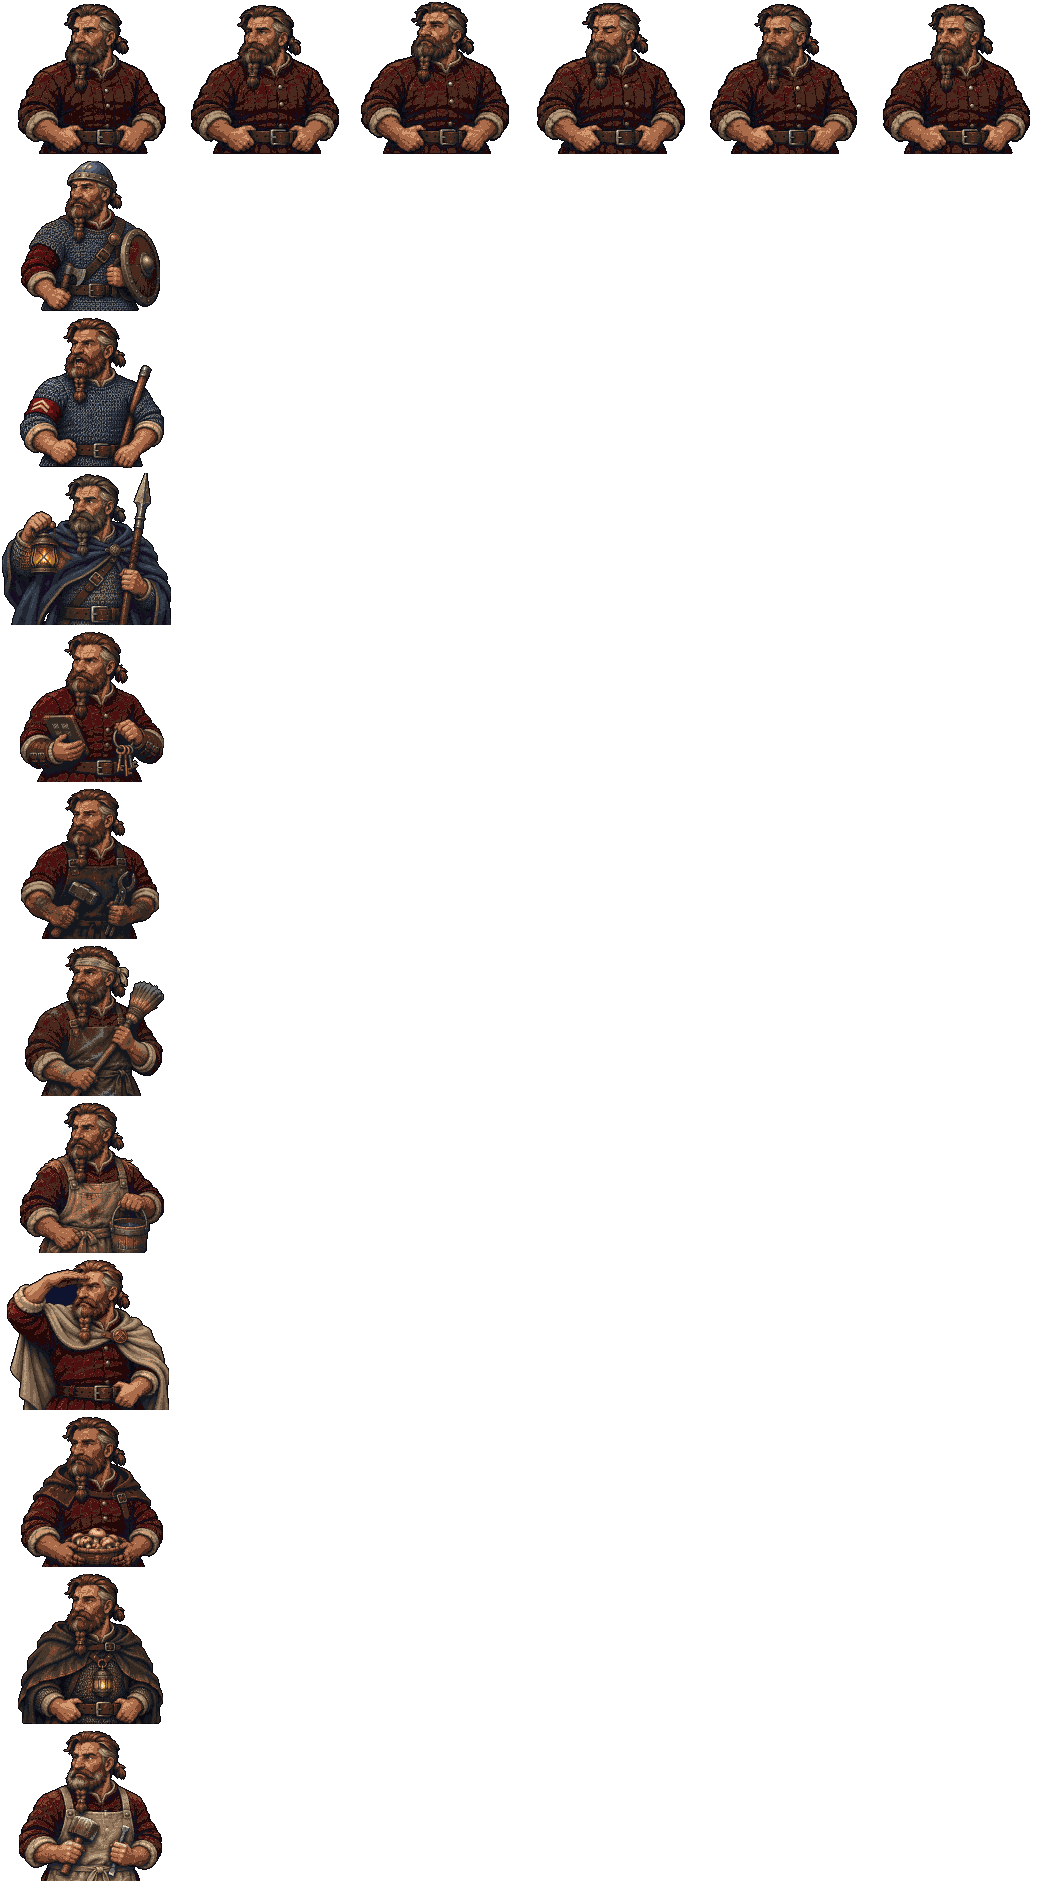
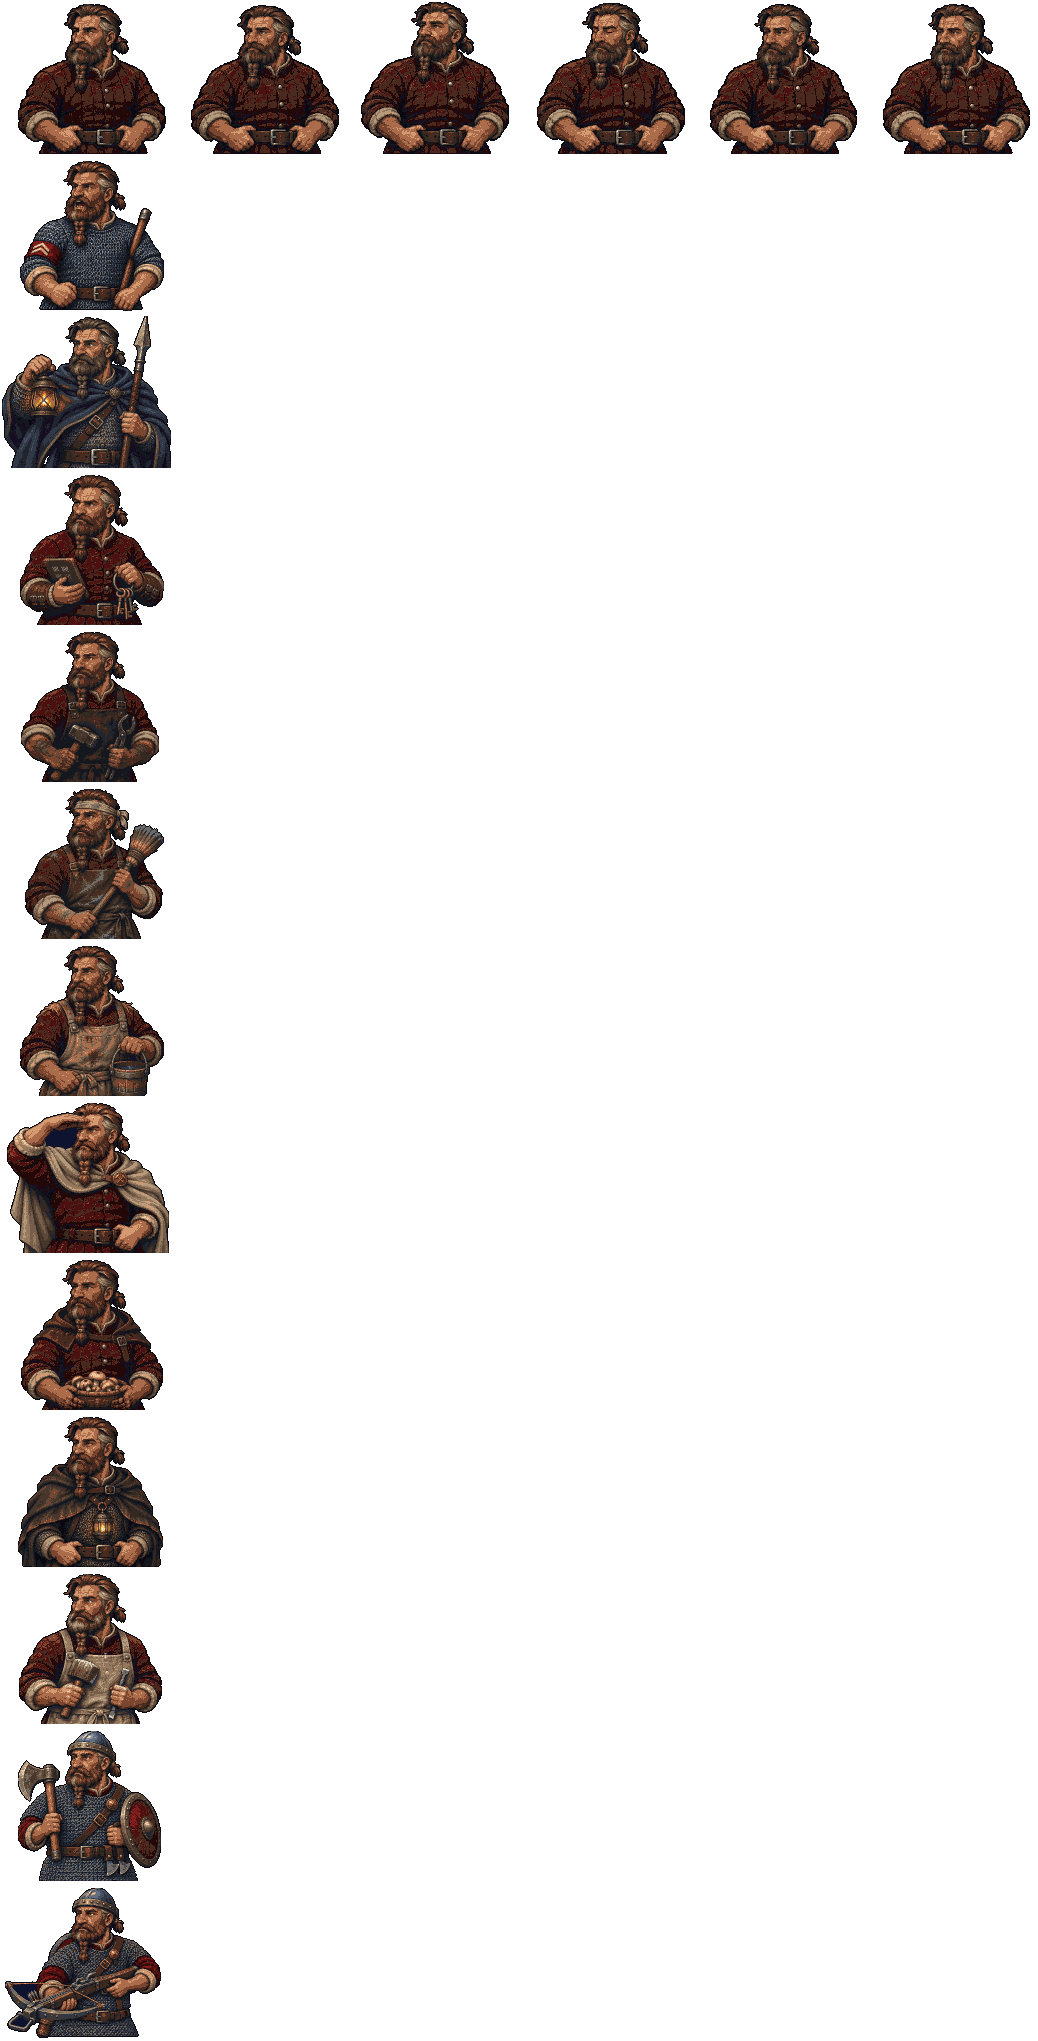
The garrison in its real kit, piece 1: the trooper's portrait redrawn with a battleaxe, the crossbowman's still, and the trooper's town figure trooper_p1 in all eight facings, worn by Ketil and the drill
The art desk's ART-142-GARRISON-PORTRAITS-AND-TOWN (art-wanted section 55, blocks 1 and 4; his "that better not be a battle axe, let's hope
not and request one"), sorted out of Fresh to deep16/_src/ART-142-GARRISON-PORTRAITS-AND-TOWN/. pt_dwarf by tools/portrait-sheet.py: its
`trooper` row from the new page (a bearded war-axe blade with a short poll on a forearm-long haft, two throwing axes at the left hip, the
mail coat below the belt) in place of ART-141's short axe, and a new `crossbowman` row (the shield slung, a heavy crossbow); the frame
173x157 as before, the face at the same scale. trooper_p1 by the new tools/trooper-town-sheet.py over tools/vivian-sheet.py (idle 4,
walk 8; S SE E NE N drawn, SW W NW mirrored; the dwarf's 38 px as folkdwarf_p1, the art desk's "match the supplied folkdwarf_p1 scale").

deep16/js/solskaft.js: Ketil and the drill's four walk on trooper_p1 in place of the gate watch's fight sheet; the gate watch stands on
gatewatch_p2 by name, so the trooper foe's next sheet does not reach him. Eyes rows eyes-garrison-portraits-1113a and
eyes-garrison-town-1113a. garrison1112 22/22 ok.

Changed region(s): [[0.0, 0.0, 0.185, 1.0], [0.5241, 0.0, 1.0, 0.0924], [0.185, 0.0, 0.4933, 0.0924]]

diff --git a/deep16/js/solskaft.js b/deep16/js/solskaft.js
@@ -116,7 +116,7 @@
   SK.WINDOW = [15, 3];        // (the lit window, high on the west store's face over this street square: Ásdís's -- over the lodging door since 11-12, the way up)
   SK.FOLK = [ // the first game's people who belong on this floor, with its looks (first/content/maps/solskaft.json), stood where the street puts them
     { id: 'pyro', at: [17, 1], dir: 'up', kind: 'trooper', sheet: 'pyro_p1' },     // (at the vault door, always -- CANON 07-24; 11-12, cutter-pyro: on his own town figure, pyro_p1, the art desk's ART-141 in all eight facings -- tools/pyro-town-sheet.py; his fight sheet pyro_p2 is his fights')
-    { id: 'ketil', at: [20, 1], dir: 'up', kind: 'trooper' },                       // (beside him: "I stand beside him and count who goes by")
+    { id: 'ketil', at: [20, 1], dir: 'up', kind: 'trooper', sheet: 'trooper_p1' }, // (beside him: "I stand beside him and count who goes by"; 11-13, the garrison cutter: on the trooper's town figure, trooper_p1, ART-142)
     { id: 'quartermaster', at: [6, 6], dir: 'down', kind: 'trooper' },              // (behind the quartermaster's counter, in the tollhouse)
     { id: 'yardhand', at: [33, 5], dir: 'up', kind: 'trooper' },                    // (by the stable's trough: his word is the wheel and the fountains)
     { id: 'shaftwatch', at: [21, 12], dir: 'left', kind: 'trooper' }                // (by the oathstone: his word is the light)
@@ -541,19 +541,20 @@
   SK.CFOLK = [
     { id: 'smith', at: [19, 22], dir: 'left', kind: 'trooper' },            // (the Copperbottom smith at the forge -- "AT THE FORGE" on the family's bar)
     { id: 'smelterhand', at: [27, 23], dir: 'down', kind: 'trooper' },      // (sweeping the cold smelters: "Orders.")
-    { id: 'gatewatch', at: [33, 24], dir: 'down', kind: 'trooper' },        // (the gate watch, inside the highway's gate)
+    { id: 'gatewatch', at: [33, 24], dir: 'down', kind: 'trooper', sheet: 'gatewatch_p2' }, // (the gate watch, inside the highway's gate; on his own drawn spear, gatewatch_p2, now the trooper's foe fights on trooper_p2)
     { id: 'shroomer', at: [4, 11], dir: 'down', kind: 'trooper' },          // (in the shroom farm's dark)
     // the drill, down in the wagon holding by its lamp (moved 11-12 off the street's apron, where it shut the way to the narrow ramp -- his "they could drill down here by the
     // wagon and mysterious glow (3, 28)-ish"; it had stood by the tollhouse and the stables, CANON 11-11)
-    { id: 'drill1', at: [1, 3], dir: 'right', kind: 'trooper' }, { id: 'drill2', at: [3, 3], dir: 'right', kind: 'trooper' },
-    { id: 'drill3', at: [1, 4], dir: 'right', kind: 'trooper' }, { id: 'drill4', at: [3, 4], dir: 'right', kind: 'trooper' },
+    // (11-13, the garrison cutter: the drill's four on the trooper's town figure, trooper_p1 -- art-wanted section 55 block 4, the art desk's ART-142, tools/trooper-town-sheet.py)
+    { id: 'drill1', at: [1, 3], dir: 'right', kind: 'trooper', sheet: 'trooper_p1' }, { id: 'drill2', at: [3, 3], dir: 'right', kind: 'trooper', sheet: 'trooper_p1' },
+    { id: 'drill3', at: [1, 4], dir: 'right', kind: 'trooper', sheet: 'trooper_p1' }, { id: 'drill4', at: [3, 4], dir: 'right', kind: 'trooper', sheet: 'trooper_p1' },
     { id: 'drillmaster', at: [5, 4], dir: 'left', kind: 'drillsergeant' }
   ];
   // THE GENERIC DWARF (11-12, the Ingrith cutter on the lanes desk's relay; art-wanted section 54, his "include a 'generic dwarf' like we did for generic NPC, various
   // costumes"): the art desk's ART-141-DWARF, one face, each of Solskaft's unnamed in the costume of the job they stand at -- pt_dwarf (tools/portrait-sheet.py dwarf),
   // its still held the whole talk on the counter's screen, the generic man's way (js/counter.js C.GENERIC: added here, not there); their word the first game's as before
   // (C.words), the quartermaster's his standing line (SK.WORDS). Those who are not soldiers walk on the dwarf's own town figure, folkdwarf_p1 (tools/folkdwarf-town-sheet.py);
-  // the drill and the gate watch keep the garrison's. Ketil is named and keeps his card. Drawn looking screen left: mirrored on the left (C.FACES_LEFT)
+  // the drill and the gate watch keep the garrison's (11-13: the drill and Ketil on the trooper's town figure, trooper_p1; the gate watch on his spear, gatewatch_p2). Ketil is named and keeps his card. Drawn looking screen left: mirrored on the left (C.FACES_LEFT)
   SK.DWARF = { quartermaster: 'quartermaster', yardhand: 'yardhand', shaftwatch: 'shaftwatch', smith: 'smith', smelterhand: 'smelter', gatewatch: 'gatewatch', shroomer: 'shroom',
     drill1: 'trooper', drill2: 'trooper', drill3: 'trooper', drill4: 'trooper', drillmaster: 'sergeant' };
   SK.DWARFWALK = ['quartermaster', 'yardhand', 'shaftwatch', 'smith', 'smelterhand', 'shroomer'];

diff --git a/js/eyes.js b/js/eyes.js
@@ -186,6 +186,12 @@
     'eyes-gatewatch-fight-1112m': { pri: 1, group: G2, title: 'THE GARRISON\'S TROOPERS FIGHT AS THE GATE WATCH: a drawn spear dwarf in every row, all eight facings (11-12)', pt: 'the story build lane, 2026-11-12 (the Ingrith cutter; tools/gatewatch-fight-sheet.py gatewatch_p2, deep16/data/foes.js trooper, trooperxbow)',
       url: 'deep16/?rows=gatewatch_p2,trooper_p0&beside&fresh=1112m',
       look: 'Your "Tried to get usable dwarf combat art out of the dept, its in Fresh": the art desk\'s ART-141 gate watch, bare-headed in mail with a leaf-headed spear -- idle, walk, the spear attack (thrusts on 3 and 5, overhead on 4), flinch, the fall with the spear let go, prone -- beside the old LPC trooper it replaces (helm, small mace). Both Trooper foes wear it now, the crossbow pair at the Skylights too (no crossbow row: they thrust as the old sheet swung). The drill-sergeant keeps his own. JUDGE: usable? and the spear on the crossbowmen.' },
+    'eyes-garrison-portraits-1113a': { pri: 1, group: G2, title: 'THE TROOPER REDRAWN WITH A BATTLEAXE, AND THE CROSSBOWMAN: two new stills of the generic dwarf (11-13)', pt: 'the story build lane, 2026-11-13 (the garrison cutter; tools/portrait-sheet.py dwarf, pt_dwarf trooper and crossbowman)',
+      url: 'deep16/?portraits&who=dwarf&fresh=1113a',
+      look: 'Your "that better not be a battle axe, let\'s hope not and request one", the art desk\'s ART-142: the TROOPER row (near the end now) redrawn -- a bearded war-axe blade with a short poll on a forearm-long haft, held upright before his right shoulder, two small throwing axes at the left hip, the mail coat below the belt -- in place of ART-141\'s short axe; and a new CROSSBOWMAN row, the shield slung on his back, a heavy steel-bound crossbow across his chest. Same face as the rest. The drill\'s four speak on the trooper still (Sólskaft\'s wagon holding); nobody speaks on the crossbowman yet. JUDGE: a battleaxe now? and the crossbowman.' },
+    'eyes-garrison-town-1113a': { pri: 1, group: G2, title: 'THE GARRISON TROOPER WALKING THE HOLD: his town figure in the trooper\'s kit, all eight facings (11-13)', pt: 'the story build lane, 2026-11-13 (the garrison cutter; tools/trooper-town-sheet.py trooper_p1, deep16/js/solskaft.js)',
+      url: 'deep16/?rows=trooper_p1,folkdwarf_p1&beside&fresh=1113a',
+      look: 'The art desk\'s ART-142 town figure beside the dwarf in his own clothes it re-dresses: steel cap, mail to mid-thigh, the round shield on his back, the battleaxe hung at the hip; idle 4 and walk 8 in every facing (SW, W, NW the mirrors). On the street: Ketil at the vault doors and the drill\'s four in the wagon holding (deep16/?roam=solskaft_cart&hour=10) walk on it now; the gate watch keeps his spear. JUDGE: the kit reads at size, and the walk.' },
     'eyes-dwarf-portrait-1112l': { pri: 1, group: G2, title: 'THE GENERIC DWARF: one face, his own clothes and eleven jobs\' costumes (11-12)', pt: 'the story build lane, 2026-11-12 (the Ingrith cutter; tools/portrait-sheet.py dwarf, pt_dwarf)',
       url: 'deep16/?portraits&who=dwarf&fresh=1112l',
       look: 'Your "include a \'generic dwarf\' like we did for generic NPC, various costumes", the art desk\'s ART-141: the same braided brown beard and broken nose every page -- idle in the red quilted tunic (a blink), then the trooper, the drill sergeant, the gate watch (lamp and spear), the quartermaster, the smith, the smelter hand, the yard hand, the shaft watch, the shroom farmer, the lamp warden, the mason. JUDGE: one dwarf, and each job reads?' },

diff --git a/deep16/data/sprites.js b/deep16/data/sprites.js
@@ -15420,7 +15420,7 @@ false
 "source": "deep16/_src/ART-139/source (the art desk's ART-139-DORAN, sorted out of Fresh 10-21), cut by tools/portrait-sheet.py"
 },
 "pt_dwarf": {
-"image": "art/pt_dwarf.png?v=c6f2dd13f6",
+"image": "art/pt_dwarf.png?v=8b4db3af1c",
 "fw": 173,
 "fh": 157,
 "ax": 92,
@@ -15445,7 +15445,7 @@ false,
 false
 ]
 },
-"trooper": {
+"sergeant": {
 "y": 157,
 "fw": 173,
 "fh": 157,
@@ -15457,7 +15457,7 @@ false
 false
 ]
 },
-"sergeant": {
+"gatewatch": {
 "y": 314,
 "fw": 173,
 "fh": 157,
@@ -15469,7 +15469,7 @@ false
 false
 ]
 },
-"gatewatch": {
+"quartermaster": {
 "y": 471,
 "fw": 173,
 "fh": 157,
@@ -15481,7 +15481,7 @@ false
 false
 ]
 },
-"quartermaster": {
+"smith": {
 "y": 628,
 "fw": 173,
 "fh": 157,
@@ -15493,20 +15493,8 @@ false
 false
 ]
 },
-"smith": {
-"y": 785,
-"fw": 173,
-"fh": 157,
-"ax": 92,
-"ay": 154,
-"frames": 1,
-"fps": 1,
-"ledge": [
-false
-]
-},
 "smelter": {
-"y": 942,
+"y": 785,
 "fw": 173,
 "fh": 157,
 "ax": 92,
@@ -15518,7 +15506,7 @@ true
 ]
 },
 "yardhand": {
-"y": 1099,
+"y": 942,
 "fw": 173,
 "fh": 157,
 "ax": 92,
@@ -15530,7 +15518,7 @@ false
 ]
 },
 "shaftwatch": {
-"y": 1256,
+"y": 1099,
 "fw": 173,
 "fh": 157,
 "ax": 92,
@@ -15542,7 +15530,7 @@ false
 ]
 },
 "shroom": {
-"y": 1413,
+"y": 1256,
 "fw": 173,
 "fh": 157,
 "ax": 92,
@@ -15554,7 +15542,7 @@ true
 ]
 },
 "lampwarden": {
-"y": 1570,
+"y": 1413,
 "fw": 173,
 "fh": 157,
 "ax": 92,
@@ -15566,6 +15554,18 @@ false
 ]
 },
 "mason": {
+"y": 1570,
+"fw": 173,
+"fh": 157,
+"ax": 92,
+"ay": 154,
+"frames": 1,
+"fps": 1,
+"ledge": [
+true
+]
+},
+"trooper": {
 "y": 1727,
 "fw": 173,
 "fh": 157,
@@ -15575,6 +15575,18 @@ false
 "fps": 1,
 "ledge": [
 true
+]
+},
+"crossbowman": {
+"y": 1884,
+"fw": 173,
+"fh": 157,
+"ax": 92,
+"ay": 154,
+"frames": 1,
+"fps": 1,
+"ledge": [
+false
 ]
 }
 },
@@ -29071,6 +29083,39 @@ true
 ]
 }
 }
+},
+"trooper_p1": {
+"image": "art/trooper_p1.png?v=43d3e32f7f",
+"fw": 32,
+"fh": 64,
+"ax": 16,
+"ay": 61,
+"top": 38,
+"anims": {
+"idle": {
+"y": 0,
+"fw": 32,
+"fh": 64,
+"ax": 16,
+"ay": 61,
+"frames": 4,
+"fps": 4
+},
+"walk": {
+"y": 512,
+"fw": 36,
+"fh": 64,
+"ax": 18,
+"ay": 61,
+"frames": 8,
+"fps": 9
+}
+},
+"name": "Trooper",
+"hold": [
+"walk: the rear NE lead change subtle (boot overlap); E and SE several close passing silhouettes; N distinguishes the trailing soles at 1 and 5 (the art desk's own notes)"
+],
+"source": "drawn by the art desk (ART-142-GARRISON-PORTRAITS-AND-TOWN, 11-12: art-wanted section 55 block 4, the garrison trooper's town figure in five views), cut by tools/trooper-town-sheet.py over tools/vivian-sheet.py; SW W NW mirrored"
 },
 "venhale_p1": {
 "image": "art/venhale_p1.png?v=457e065ec2",

diff --git a/deep16/index.html b/deep16/index.html
@@ -77,7 +77,7 @@
 <script src="js/art.js?v=e1ce4cf012"></script>
 <script src="data/cavern.js?v=647c1a184a"></script>
 <script src="data/maps.js?v=bef56a5de9"></script>
-<script src="data/sprites.js?v=a15c270fc6"></script>
+<script src="data/sprites.js?v=b16bfdce26"></script>
 <script src="js/sprites.js?v=ac7a3234c4"></script>
 <script src="js/save.js?v=f0ad7180ca"></script>
 <script src="data/spells.js?v=ae0037fb81"></script>
@@ -158,7 +158,7 @@
 <script src="js/hours.js?v=8144698a0c"></script>
 <script src="js/general.js?v=fd5dc8ab6c"></script>
 <script src="js/trueword.js?v=8f751fb084"></script>
-<script src="js/solskaft.js?v=c47d377db1"></script>
+<script src="js/solskaft.js?v=49e69bf900"></script>
 <script src="js/skart.js?v=5b9b1b59a2"></script>
 <script src="data/stages/bard.js?v=adefc0a54b"></script>
 <script src="data/stages/cleric.js?v=306dc3469d"></script>

diff --git a/tools/trooper-town-sheet.py b/tools/trooper-town-sheet.py
@@ -1,0 +1,66 @@
+"""DEEP16 pipeline 2 (generated art): Solskaft's garrison trooper, walking the hold -- his town figure in the trooper's kit -> trooper_p1, in all eight facings.
+
+    python tools/trooper-town-sheet.py            (writes deep16/art/trooper_p1.png/.json)
+    python tools/trooper-town-sheet.py check      (also the review sheet: every row of every drawn view at 3x)
+
+Asked in art-wanted section 55, block 4 (11-12, the lanes desk, on his word: "go on the level and kit for pyros folk ... and then the combat posings we'll
+need (world model revision?)"); cut 11-13 by the garrison cutter on the lanes desk's relay. The art desk's ART-142-GARRISON-PORTRAITS-AND-TOWN, sorted out of
+Fresh to deep16/_src/ART-142-GARRISON-PORTRAITS-AND-TOWN/ (the zip beside it): the generic dwarf's town figure (folkdwarf_p1) re-dressed -- the steel cap, the
+coat of mail to mid-thigh, the quilted red sleeves, the round shield slung on his back, the battleaxe hung head-down at the right hip, two throwing axes at the
+left. HEAD 1 S, 2 SE, 3 E, 4 the rear NE, 5 N -- PAGE 1 Idle 4, PAGE 2 Walk 8. Its FRAME-MAP.json gives each frame a `number`, an `engine_index` and a
+`window_xyxy` on `sources/town/`; the window is drawn tight round the drawing as folkdwarf_p1's (tools/folkdwarf-town-sheet.py, whose `tight` this borrows).
+
+The cut is tools/vivian-sheet.py's, as folkdwarf_p1's: the idle page by its idle's median to TALL -- the dwarf's 38, the art desk's "match the supplied
+folkdwarf_p1 scale"; the walk page matched to its view's idle; SW W NW the mirrors of SE E NE (RULED 10-14: the belt kit flips with them, the art desk's
+"mirror assets may flip the belt kit visually as part of the existing facing convention"); boxed down, snapped to the 64 (fire left out; the reds kept for the
+sleeves), outlined. Worn by Solskaft's soldiers on the street (deep16/js/solskaft.js: Ketil and the drill's four) in place of the gate watch's fight sheet.
+"""
+import importlib.util, json, os, sys
+import numpy as np
+from PIL import Image
+from scipy import ndimage
+
+ROOT = os.path.dirname(os.path.dirname(os.path.abspath(__file__)))
+_fd = importlib.util.spec_from_file_location('folkdwarf_town', os.path.join(ROOT, 'tools', 'folkdwarf-town-sheet.py'))
+FD = importlib.util.module_from_spec(_fd); _fd.loader.exec_module(FD)
+_sp = importlib.util.spec_from_file_location('vivian_sheet', os.path.join(ROOT, 'tools', 'vivian-sheet.py'))
+VS = importlib.util.module_from_spec(_sp); _sp.loader.exec_module(VS)
+
+SRC = 'ART-142-GARRISON-PORTRAITS-AND-TOWN'
+ROW = {'Idle': 'idle', 'Walk': 'walk'}
+PAD = 14
+_pages = {}
+
+
+def page(fn):
+    if fn not in _pages:
+        _pages[fn] = np.asarray(Image.open(os.path.join(VS.pix.SRC, SRC, fn)).convert('RGB')).astype(np.float32)
+    return _pages[fn]
+
+
+def frame_windows():
+    fm = json.load(open(os.path.join(VS.pix.SRC, SRC, 'FRAME-MAP.json'), encoding='utf-8'))
+    out = []
+    for pg in fm['pages']:
+        if pg.get('asset') != 'trooper_p1':
+            continue                                                                   # (the two portrait stills are pt_dwarf's: tools/portrait-sheet.py)
+        row = ROW[pg['action']]
+        W, H = pg['source_size'] if 'source_size' in pg else pg['source_dimensions']
+        idx = [f['engine_index'] for f in pg['frames']]
+        assert idx == list(range({'idle': 4, 'walk': 8}[row])), (pg['source'], idx)   # (every number once, none skipped)
+        for f in pg['frames']:
+            x0, y0, x1, y1 = f['window_xyxy']
+            cell = (max(0, x0 - PAD), max(0, y0 - PAD), min(W, x1 + PAD), min(H, y1 + PAD))
+            out.append(('', pg['facing'], row, f['engine_index'], pg['source'], FD.tight(page(pg['source']), cell)))
+    return out
+
+
+VS.LOOKS['trooper_p1'] = dict(
+    src=SRC, windows=frame_windows() if os.path.isdir(os.path.join(VS.pix.SRC, SRC)) else [], tall=38, avoid=['fire'], name='Trooper',
+    rows=[('idle', 4, 4), ('walk', 9, 8)], match={'walk': ('idle', 0)},
+    hold=["walk: the rear NE lead change subtle (boot overlap); E and SE several close passing silhouettes; N distinguishes the trailing soles at 1 and 5 (the art desk's own notes)"],
+    source="drawn by the art desk (ART-142-GARRISON-PORTRAITS-AND-TOWN, 11-12: art-wanted section 55 block 4, the garrison trooper's town figure in five views), cut by "
+           'tools/trooper-town-sheet.py over tools/vivian-sheet.py; SW W NW mirrored')
+
+if __name__ == '__main__':
+    VS.cut('trooper_p1')

diff --git a/tools/portrait-sheet.py b/tools/portrait-sheet.py
@@ -291,9 +291,14 @@ PEOPLE = {
     'dwarf': ('dwarf/PORTRAITS/sources', 'ART-141-DWARF', 'Solskaft\'s unnamed (js/solskaft.js SK.DWARF)', {'propfree': True, 'pat': 'ART-141-DWARF_HEAD-%02d_PAGE-%d_%s.png',
               'layout': [('dwarf/PORTRAITS/sources/ART-141-DWARF_HEAD-01_PAGE-1_IDLE.png', [3, 3], ['idle'] * 6)]
               + [('dwarf/PORTRAITS/sources/ART-141-DWARF_HEAD-%02d_PAGE-1_%s.png' % (h, pg), [1], [act]) for h, pg, act in [
-                  (2, 'TROOPER', 'trooper'), (3, 'DRILL-SERGEANT', 'sergeant'), (4, 'GATE-WATCH', 'gatewatch'), (5, 'QUARTERMASTER', 'quartermaster'),
+                  (3, 'DRILL-SERGEANT', 'sergeant'), (4, 'GATE-WATCH', 'gatewatch'), (5, 'QUARTERMASTER', 'quartermaster'),
                   (6, 'SMITH', 'smith'), (7, 'SMELTER-HAND', 'smelter'), (8, 'YARD-HAND', 'yardhand'), (9, 'SHAFT-WATCH', 'shaftwatch'),
-                  (10, 'SHROOM-FARMER', 'shroom'), (11, 'LAMP-WARDEN', 'lampwarden'), (12, 'MASON', 'mason')]],
+                  (10, 'SHROOM-FARMER', 'shroom'), (11, 'LAMP-WARDEN', 'lampwarden'), (12, 'MASON', 'mason')]]
+              # the garrison in its real kit (11-13, the garrison cutter; art-wanted section 55, his "that better not be a battle axe, let's hope not and request one"):
+              # the art desk's ART-142, sorted to deep16/_src/ART-142-GARRISON-PORTRAITS-AND-TOWN/ -- the trooper redrawn with a bearded battleaxe, two throwing axes and
+              # the full coat of mail (in place of ART-141's HEAD 2, the short axe, now in dwarf/PORTRAITS/superseded/), and the crossbowman, the shield slung, a heavy crossbow
+              + [('ART-142-GARRISON-PORTRAITS-AND-TOWN/sources/portraits/ART-142-HEAD-%02d-PAGE-1-%s.png' % (h, pg), [1], [act]) for h, pg, act in [
+                  (1, 'TROOPER', 'trooper'), (2, 'CROSSBOWMAN', 'crossbowman')]],
               'avoid': {'*': ['fire', '#e8624a'], 'gatewatch': ['#e8624a'], 'lampwarden': ['#e8624a']}}),
     # GENERAL GRIMLOCK GRIM (11-10, the cutter of 11-10, on the lanes desk's queue -- Griz: "they can churn through fresh one at a time as they complete at your discretion
     # as to next cut"; the General of the road redraft from his Beholda stream table, his 10-28 "was decided re: General Grimlock Grim beholda scripting for road redraft"):
